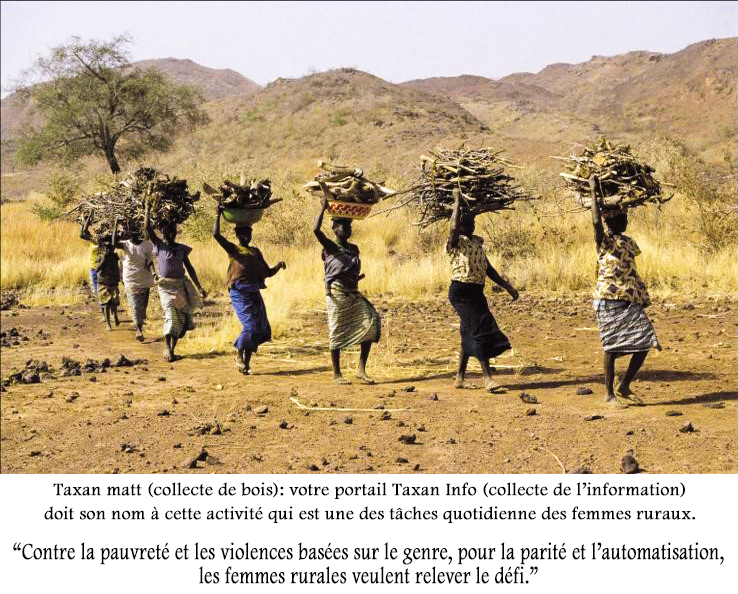
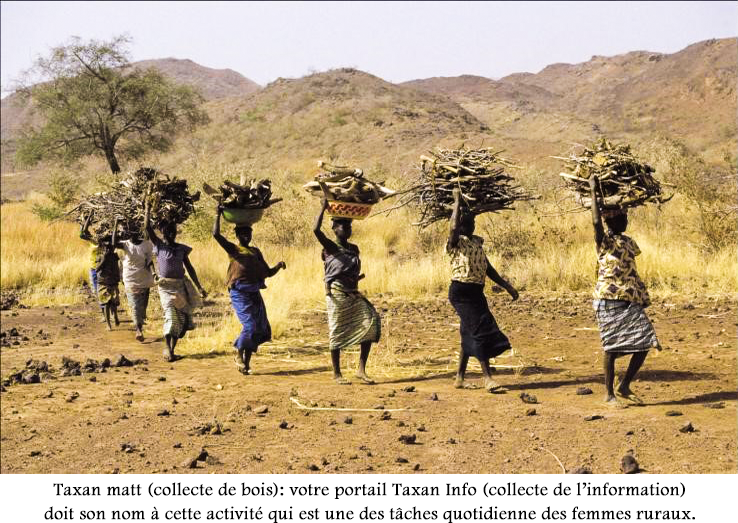
SET UP 4

diff --git a/pages/index.js b/pages/index.js
@@ -29,7 +29,7 @@ export default function Index() {
               <br className="my-6 border-blueGray-300" />
 
               
-              <p className="mt-4 text-lg leading-relaxed text-black-500">
+              <p className="mt-4 text-lg leading-relaxed text-black-500 text-justify">
                 Taxan Info est une plateforme web qui permet aux organisations communautaires de base une gestion informatisée de leurs organisations mais surtout un suivi de leurs membres dans leurs activités et leurs conditions de vie. <br/>
                 Il est conçu pour la collecte de l’information à la base, son traitement, son exploitation en interne par des requêtes imprimées  et sa diffusion sous forme de données statistiques vers les partenaires. Il s’agit d’une  application web, accessible soit par son portail grâce à un login et un mot de passe soit par installation en local chez le client.<br/> Une unité de coordination de programme ou une structure faitière peut à partir du portail disposer d’un espace privé où elle regroupe ses utilisateurs ou agents accrédités situés dans divers points de collecte de données.
               </p>
@@ -49,10 +49,7 @@ export default function Index() {
           src="/img/taxan/Land-in-Zim.png"
           alt="..."
           data-bs-toggle="popover" title="Taxan matt (collecte de bois): Votre portail Taxan Info (collecte de l’information)
-          doit son nom à cette activité qui est une tâches quotidienne des femmes ruraux.
-
-          “Contre la pauvreté et les violences basées sur le genre, pour le parité et l’automatisation,
-          les femmes rurales veulent relever le défi.”" data-bs-content=""/>
+          doit son nom à cette activité qui est une tâches quotidienne des femmes ruraux." data-bs-content=""/>
 
         <br className="my-6 border-blueGray-300" />
         <br className="my-6 border-blueGray-300" />

diff --git a/components/Navbars/IndexNavbar.js b/components/Navbars/IndexNavbar.js
@@ -112,14 +112,30 @@ export default function Navbar(props) {
 
             </ul>
           </div>
+          <div className="text-center text-xl font-bold text-blueGray">
+            <p>“Contre la pauvreté et les violences basées sur le genre, pour le parité et        l’automatisation,
+            les femmes rurales veulent relever le défi.”</p>
+          </div>
+        <br className="my-6 border-blueGray-300" />
+        <br className="my-6 border-blueGray-300" />
         </div>
       </nav>
-      <hr className="my-6 border-blueGray-300" />
+      
+        <hr className="my-6 border-blueGray-300" />
         <br className="my-6 border-blueGray-300" />
         <br className="my-6 border-blueGray-300" />
         <br className="my-6 border-blueGray-300" />
         <br className="my-6 border-blueGray-300" />
         <br className="my-6 border-blueGray-300" />
+        <br className="my-6 border-blueGray-300" />
+        <br className="my-6 border-blueGray-300" />
+        <br className="my-6 border-blueGray-300" />
+        <br className="my-6 border-blueGray-300" />
+        <br className="my-6 border-blueGray-300" />
+        <br className="my-6 border-blueGray-300" />
+        <br className="my-6 border-blueGray-300" />
+        <br className="my-6 border-blueGray-300" />
+
         
 
     </>
